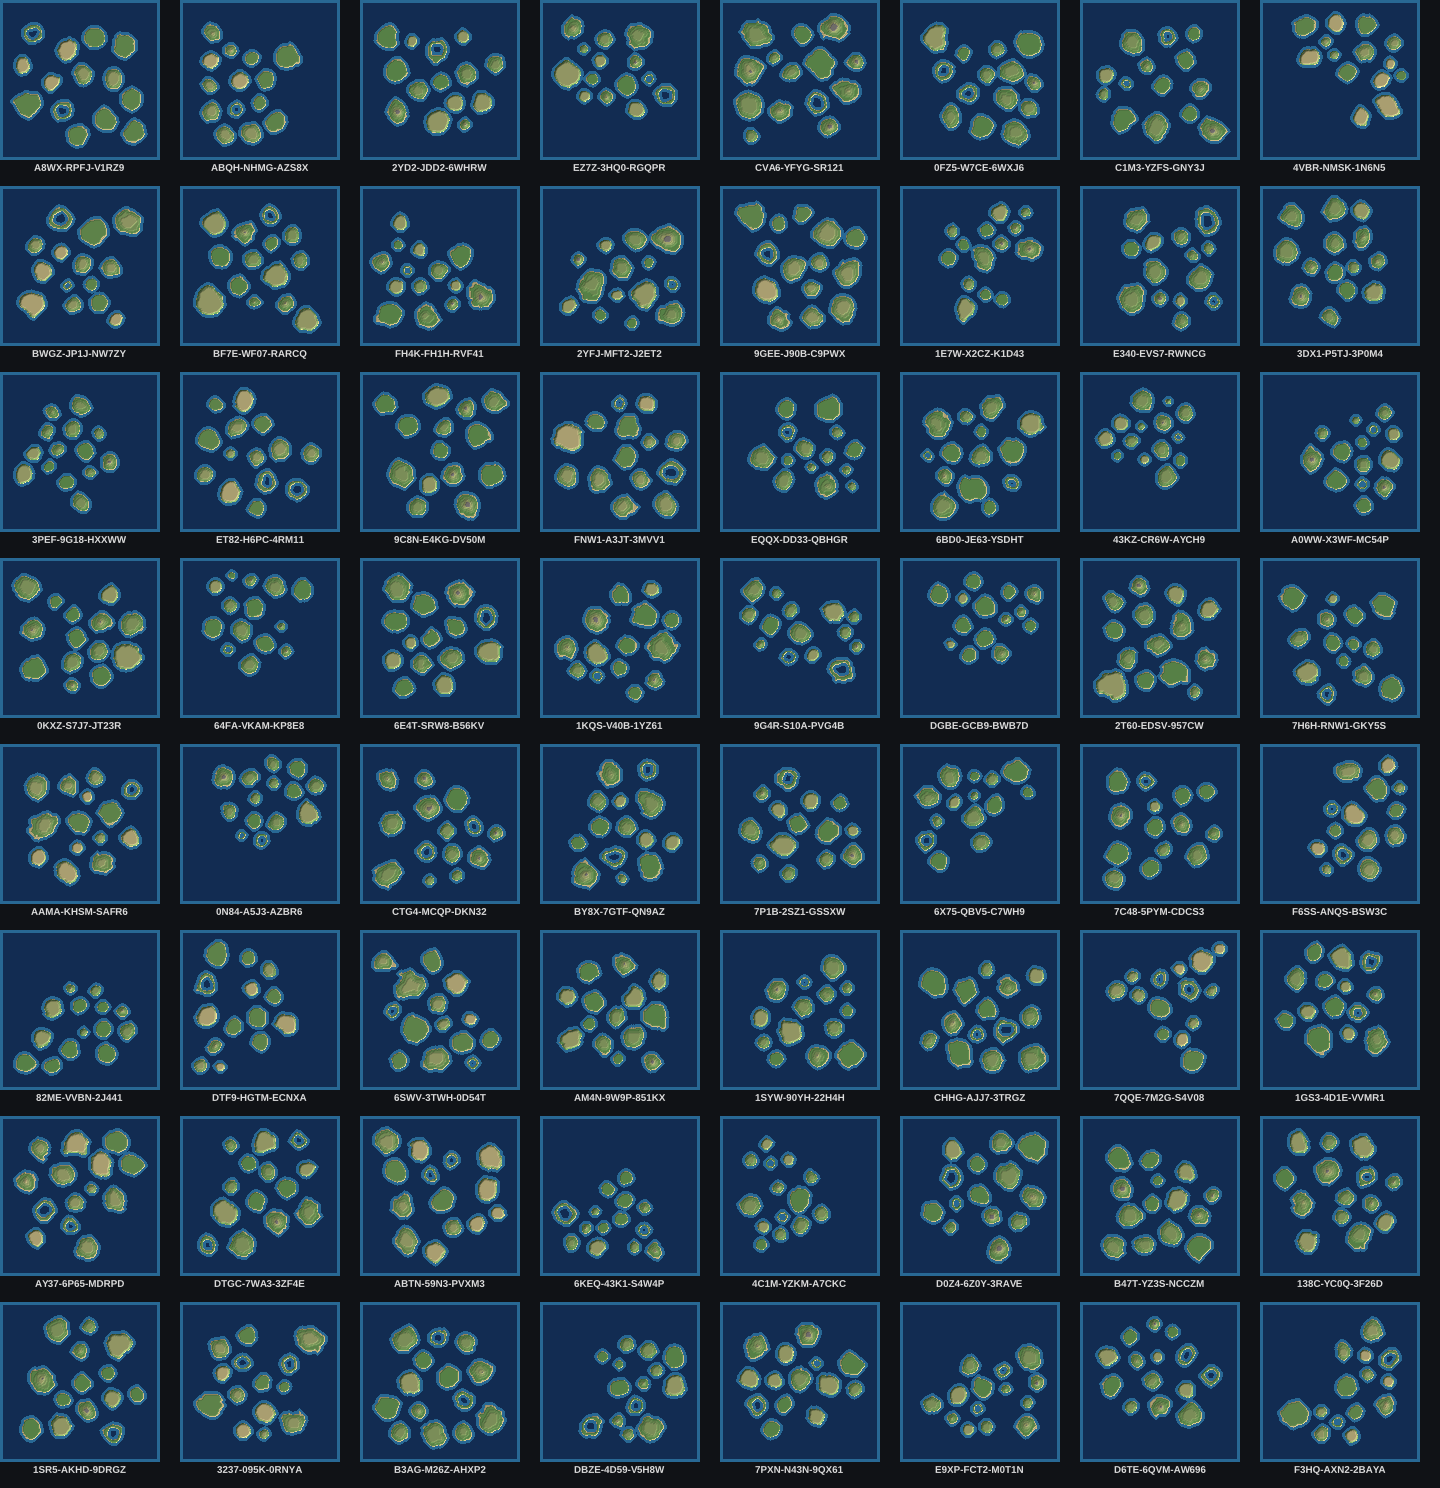
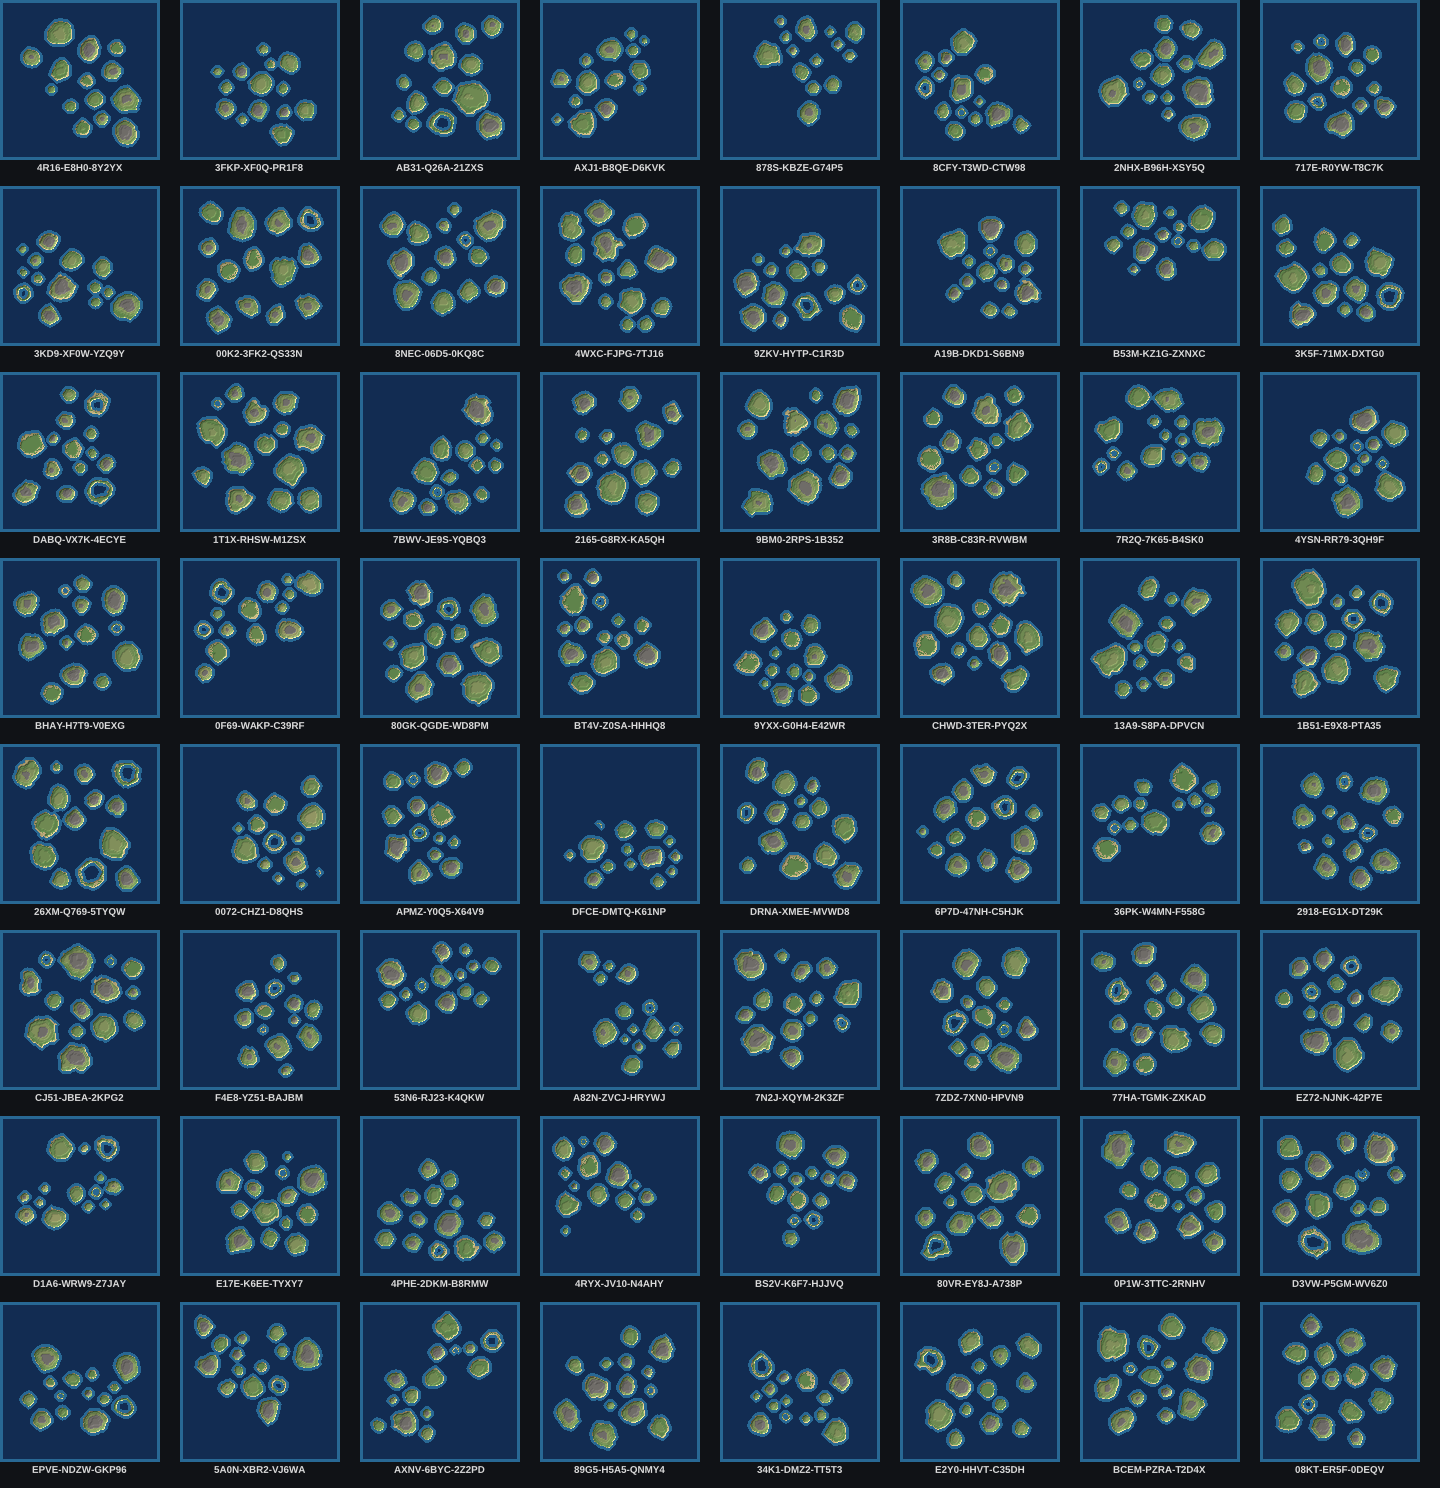
the assets/ tree under oath: fresh sheet, honest tree, attributed fonts
Round 253 swept two long-quiet corners:

1. RELEASE ZIPS hold: every OS leg packages binary + sibling
   assets/ (unix 'zip -r cyclone assets/', win Compress-Archive
   both), matching bevy's packaged exe-dir lookup — fonts load,
   worlds fly out of the box. A hold, logged.
2. docs/ census: ONE file, an UNREFERENCED sample contact sheet
   dated Nov-6 — 'probably still current' is not the standard, so
   it is REGENERATED from current code (batch --count 64, release
   CLI, copied byte-fresh). The 02 box-tick sample can no longer
   be stale-by-accident.
3. V2/00's workspace tree promised 'docs/specs/' — true at pen-time,
   false at boot: the pilot moved the specs to V2/, models/shaders
   wait for spec 06, docs/ holds generated samples. Dated
   annotation under the tree; pilot text untouched.
4. FONT LICENSES: LiberationSans sat attributed nowhere — repo's
   ONLY third-party binary assets, silent since spec 01. OFL note
   now sits beside them (SIL OFL 1.1, no RFU, SPDX id, canonical
   URL — license text linked, never retyped-from-memory). Ground
   rule 'everything is new' holds for fonts by SCOPE (not 1984
   material) and by LICENSE (OFL redistribution is the license
   doing its job). Attribution belongs next to the borrowing.

fmt clean.

Changed region(s): [[0.0, 0.0, 1.0, 0.9892]]

diff --git a/assets/fonts/OFL-attribution.md b/assets/fonts/OFL-attribution.md
@@ -1,0 +1,16 @@
+# Font attribution
+
+`LiberationSans-Bold.ttf` / `LiberationSans-Regular.ttf` are
+**unmodified Liberation Sans** (Red Hat, Inc.), licensed under the
+**SIL Open Font License 1.1** (no Reserved Font Name) — free to
+use, modify and redistribute with attribution. Canonical license
+text: https://openfontlicense.org (SPDX: OFL-1.1).
+
+These files predate the V2 engine and are the repo's only
+third-party binary assets. They satisfy the V2/README ground rule
+('models, textures and sounds are new') by scope — fonts are not
+1984 material under any reading — and by license. V2/README's
+rule was audited round 232 (audio: synthesised by
+v1/tools/gen_sfx.rs); this file closes the fonts' half of that
+census: nothing here is from the original game, and everything
+borrowed says so next to the borrowing.

diff --git a/V2/00-engine-architecture.md b/V2/00-engine-architecture.md
@@ -54,6 +54,13 @@ cyclone (bin)
  └──────────────────┴──> cyclone_worldgen (pure, no bevy)
 ```
 
+*(Round-253 note: the tree above is the target layout as specced; the
+implemented layout differs exactly where the pilot chose — the specs
+themselves live in `V2/`, not `docs/specs/`; `assets/models` +
+`shaders` arrive with spec 06 as planned, and `docs/` today carries
+generated samples (contact-sheet.png, regenerated from current code
+round 253).)*
+
 `cyclone_worldgen` stays Bevy-free so it compiles fast, tests fast, and runs in the CLI tool.
 
 ## Build profiles
